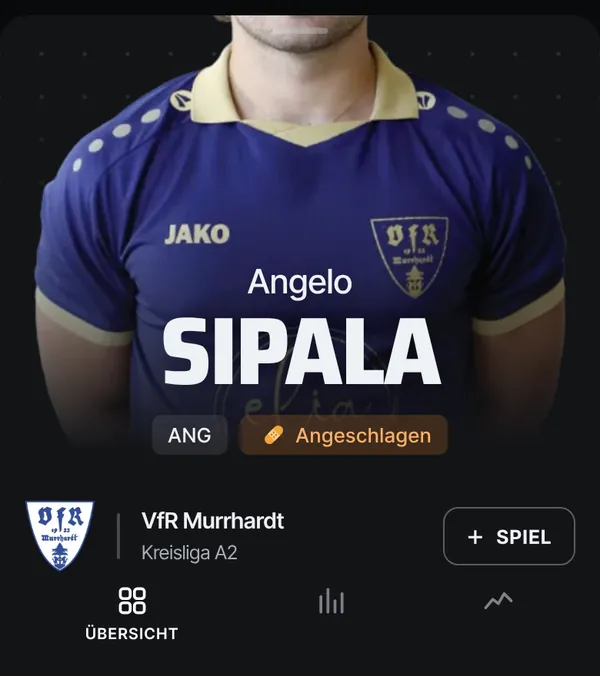
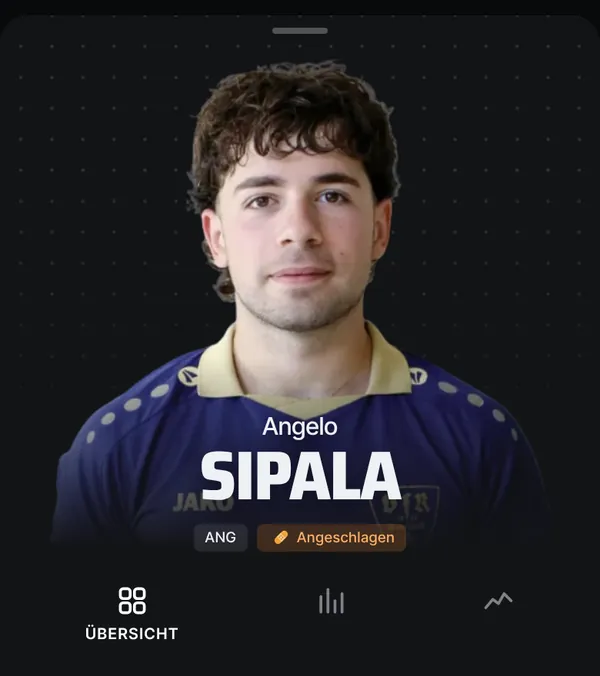
Rundgaenge: schaerfere Fotos, neue Ausschnitte, Barbano-Folie
- Torschuss- und Jubelfoto gegen schaerfere Fassungen getauscht
- Wer war's: Ausschnitt mit Torwart und Tor, Punkte oben links
- Zusammen buchen: Mannschaftsfoto mit kleinen Chips statt grossem QR-Bild
- Profil-Folie: Sipala ganz im Bild (verkleinert aufgenommen)
- Live bewerten: Barbano im 1 gegen 1, Aktionen fliegen hoch, Punkte zaehlen mit
- Version 4.9.1

Claude-Session: https://claude.ai/code/session_01RQDoPzKtwvGm13ZAECRXAG

diff --git a/js/ui/intro.js b/js/ui/intro.js
@@ -3,29 +3,30 @@
    - Punktevergabe erklärt: beim ersten Öffnen von „Punkte vergeben“ nach dem Spielstart
    Bilder: Screenshots der App und Fotos von uns (f-*), gemischt. Jeder Rundgang erscheint pro Gerät genau einmal (Schlüssel in KEYS). Neue Version eines Rundgangs = neuer Schlüssel,
    dann sieht ihn jeder noch einmal. Bilder liegen im Repo (assets/img/tut, WebP) – kein Supabase-Traffic. */
-import { readJson, writeJson, esc, fmt, cls } from '../core/util.js';
+import { readJson, writeJson, esc, fmt, cls, setNum, reducedMotion } from '../core/util.js';
+import { PL, photoUrl } from '../data/players.js';
 import { ACT } from '../core/game.js';
 import { KEYS } from '../config.js';
 
-const IMG = 'assets/img/tut/', V = '.webp?v=2'; // neue Bilder: v hochzählen (der Service Worker hält Bilder sonst für immer)
+const IMG = 'assets/img/tut/', V = '.webp?v=3'; // neue Bilder: v hochzählen (der Service Worker hält Bilder sonst für immer)
 /* Folien: { s: Screenshot der App } oder { f: Foto von uns, chips: [[Aktion, Punkte]], inset: kleiner Screenshot, logo } */
 const APP = [
-  { f: 'f-team', logo: 1, t: 'Willkommen bei Kickbase KL', x: 'Kickbase-Punkte für unsere Kreisliga – live vom Spielfeldrand.' },
+  { f: 'f-duell', logo: 1, t: 'Willkommen bei Kickbase KL', x: 'Kickbase-Punkte für unsere Kreisliga – live vom Spielfeldrand.' },
   { s: 'a-liga', t: 'Liga', x: 'Live-Spiele, nächste Spiele und der Spieler der Woche. Unten das Menü – oder einfach seitlich wischen.' },
   { s: 'a-profil', t: 'Jeder hat ein Profil', x: 'Punkte pro Spiel, Marktwert und Form. Ein Balken öffnet das Spiel mit allen Aktionen.' },
   { s: 'a-live', t: 'Live dabei', x: 'Läuft ein Spiel, siehst du jede Aktion sofort – auch ohne am Platz zu sein.' },
-  { s: 'a-neu', t: 'Selbst Punkte vergeben', x: 'Über den Blitz unten: Spieler wählen, Spiel starten. Den Rest zeigt dir die App beim ersten Mal.' },
+  { f: 'f-zweikampf', tag: { p: 'Barbano', a: ['duel', 'icpt', 'clri'] }, t: 'Live bewerten', x: 'Jede Aktion am Spielfeldrand sofort buchen. Über den Blitz unten: Spieler wählen, Spiel starten.' },
   { s: 'a-ranking', t: 'Ranking', x: 'Nach dem Abpfiff speichern – dann zählt das Spiel für Hall of Fame und Marktwert.' },
   { f: 'f-jubel', chips: [['MVP', 1], ['Top 3', 2]], t: 'Montag, 19 Uhr', x: 'Dann startet die MVP-Stage: die drei Besten des Spieltags.' }
 ];
 const BOOK = [
   { s: 'b-start', t: 'So vergibst du Punkte', x: 'Oben den Spieler wählen, unten den Bereich. Aktion antippen – fertig.' },
   { s: 'b-tor', t: 'Tor? Erst fürs Team', x: 'Fällt ein Tor, tippe im Reiter Spiel auf „Tor“ für dein Team – nicht beim Spieler. So stimmt der Spielstand für alle.' },
-  { f: 'f-schuss', chips: [['Tor', 'goal'], ['Schuss aufs Tor', 'sot'], ['Fernschuss', 'long']], t: 'Wer war’s?', x: 'Torschütze antippen, Fernschuss oder Schuss aufs Tor gleich mit dazu.' },
+  { f: 'f-schuss', top: 1, chips: [['Tor', 'goal'], ['Schuss aufs Tor', 'sot'], ['Fernschuss', 'long']], t: 'Wer war’s?', x: 'Torschütze antippen, Fernschuss oder Schuss aufs Tor gleich mit dazu.' },
   { s: 'b-vorlage', t: 'Vorlage mit Extras', x: 'Wer hat aufgelegt? Großchance, Flanke oder Pass des Todes geben extra Punkte. Alles freiwillig.' },
   { s: 'b-gegentor', t: 'Gegentor', x: 'Zuerst „Tor“ für den Gegner. Danach den Schuldigen wählen – wenn es einen gibt.' },
   { s: 'b-einhand', t: 'Ein-Hand-Modus', x: 'Hand-Symbol neben der Suche: sechs große Kacheln im Daumenbereich. Wischen wechselt den Spieler.' },
-  { f: 'f-duell', inset: 'b-mit', t: 'Zusammen buchen', x: 'Bis zu 3 Handys scannen den QR-Code im Reiter Spiel. Jeder wählt seine Spieler – Tore darf jeder melden.' },
+  { f: 'f-team', chips: [['Du · Klenk, Krauss', 0], ['Max · Reule', 0]], t: 'Zusammen buchen', x: 'Bis zu 3 Handys scannen den QR-Code im Reiter Spiel. Jeder wählt seine Spieler – Tore darf jeder melden.' },
   { s: 'b-zuletzt', t: 'Vertippt? Kein Problem', x: 'Unten stehen die letzten Buchungen. Antippen: löschen oder einem anderen Spieler geben.' }
 ];
 
@@ -34,19 +35,42 @@ export const bookingTourSeen = () => !!readJson(KEYS.tourBook2, false);
 export const showIntro = () => tour(APP, KEYS.intro3, 'Einführung', 'Los geht’s');
 export const showBookingTour = () => tour(BOOK, KEYS.tourBook2, 'Punktevergabe erklärt', 'Verstanden');
 
-/* Punkte-Chips auf den Fotos: Zahl = feste Punktzahl, Text = Aktion aus der Punktetabelle (Stürmer) */
-function chipPts(v) {
-  if (typeof v === 'number') return '';
+/* Punkte einer Aktion aus der Punktetabelle (Stürmer, sonst Mittelfeld) */
+function ptsOf(v) {
   const a = ACT[v];
-  if (!a) return '';
-  const n = typeof a.v === 'number' ? a.v : a.v && (a.v.ANG != null ? a.v.ANG : a.v.MIT);
+  if (!a) return null;
+  return typeof a.v === 'number' ? a.v : a.v && (a.v.ANG != null ? a.v.ANG : a.v.MIT);
+}
+/* Punkte-Chips auf den Fotos: Zahl = ohne Punkte, Text = Aktion */
+function chipPts(v) {
+  const n = typeof v === 'number' ? null : ptsOf(v);
   return n != null ? '<b class="' + cls(n) + '">' + fmt(n) + '</b>' : '';
+}
+/* Spieler-Marke auf dem Foto: seine Aktionen fliegen nacheinander hoch, die Punkte zählen mit */
+let tagTimer = null;
+function playTag(st, tag) {
+  clearTimeout(tagTimer);
+  const box = st.querySelector('.tour-tag'), num = box && box.querySelector('b');
+  if (!box) return;
+  let i = 0, sum = 0;
+  num._v = 0; num.textContent = '0';
+  const next = () => {
+    if (!box.isConnected || i >= tag.a.length) return;
+    const k = tag.a[i++], n = ptsOf(k) || 0, f = document.createElement('i');
+    f.className = 'tour-fly'; f.innerHTML = '<b class="' + cls(n) + '">' + fmt(n) + '</b> ' + esc(ACT[k].l);
+    box.parentNode.appendChild(f);
+    setTimeout(() => f.remove(), 1500);
+    sum += n; setNum(num, sum);
+    tagTimer = setTimeout(next, reducedMotion ? 0 : 1100);
+  };
+  tagTimer = setTimeout(next, 500);
 }
 function visual(sl) {
   if (sl.s) return '<div class="tour-shot"><img src="' + IMG + sl.s + V + '" alt="" width="600" height="676"></div>';
   return '<div class="tour-shot tour-photo"><img src="' + IMG + sl.f + V + '" alt="" width="600" height="676">' +
     (sl.logo ? '<img class="tour-plogo" src="assets/icons/logo.svg" alt="Kickbase KL">' : '') +
-    (sl.chips ? '<div class="tour-chips">' + sl.chips.map(([l, v], j) => '<span style="animation-delay:' + (0.25 + j * 0.22) + 's">' + esc(l) + chipPts(v) + '</span>').join('') + '</div>' : '') +
+    (sl.chips ? '<div class="tour-chips' + (sl.top ? ' top' : '') + '">' + sl.chips.map(([l, v], j) => '<span style="animation-delay:' + (0.25 + j * 0.22) + 's">' + esc(l) + chipPts(v) + '</span>').join('') + '</div>' : '') +
+    (sl.tag ? '<div class="tour-tag"><img src="' + esc(photoUrl(sl.tag.p, true)) + '" alt=""><span><small>' + esc(PL[sl.tag.p].n) + '</small><b>0</b></span></div>' : '') +
     (sl.inset ? '<div class="tour-inset"><img src="' + IMG + sl.inset + V + '" alt=""></div>' : '') + '</div>';
 }
 
@@ -65,6 +89,7 @@ function tour(slides, key, label, doneLabel) {
   const draw = dir => {
     const sl = slides[i], last = i === slides.length - 1, st = el.querySelector('#tourStage');
     st.innerHTML = visual(sl) + '<h2>' + esc(sl.t) + '</h2><p>' + esc(sl.x) + '</p>';
+    if (sl.tag) playTag(st, sl.tag); else clearTimeout(tagTimer);
     if (dir && st.animate && !matchMedia('(prefers-reduced-motion: reduce)').matches)
       st.animate([{ opacity: 0, transform: 'translateX(' + 30 * dir + 'px)' }, { opacity: 1, transform: 'none' }], { duration: 260, easing: 'cubic-bezier(.2, .8, .2, 1)' });
     el.querySelectorAll('.tour-dots i').forEach((d, j) => d.classList.toggle('on', j === i));

diff --git a/tests/tools/tutorial-bilder.js b/tests/tools/tutorial-bilder.js
@@ -32,13 +32,13 @@ const CSS = `.tut-hl{outline:3px solid #28de86!important;outline-offset:3px;box-
   await shot('a-liga');
   await c('[data-lv]'); await p.waitForTimeout(900); await p.evaluate(() => { const s = document.getElementById('watchScroll'), h = s.querySelector('.mhero'); s.scrollTop = h.offsetHeight - 300; }); await p.waitForTimeout(200); await p.evaluate(() => document.getElementById('watchMini').classList.remove('on')); await shot('a-live'); await p.evaluate(() => history.back()); await p.waitForTimeout(500);
   await c('[data-tb="kader"]'); await p.waitForTimeout(500);
-  await p.evaluate(() => [...document.querySelectorAll('[data-open^="p:"]')].find(e => e.textContent.includes('Sipala')).click()); await p.waitForTimeout(1800); await p.evaluate(() => { const s = document.getElementById('profileScroll'), n = s.querySelector('.pnames'); s.scrollTop = n.getBoundingClientRect().top + s.scrollTop - 170; }); await p.waitForTimeout(200); await p.evaluate(() => document.getElementById('profileMini').classList.remove('on')); await shot('a-profil');
+  await p.evaluate(() => [...document.querySelectorAll('[data-open^="p:"]')].find(e => e.textContent.includes('Sipala')).click()); await p.waitForTimeout(1800); await p.evaluate(() => { const s = document.getElementById('profileScroll'), n = s.querySelector('.pnames'); s.scrollTop = 0; s.style.zoom = 0.72; }); await p.waitForTimeout(200); await p.evaluate(() => document.getElementById('profileMini').classList.remove('on')); await shot('a-profil');
   await p.evaluate(() => history.back()); await p.waitForTimeout(500);
   await c('[data-tb="hof"]'); await p.waitForTimeout(1500); await shot('a-ranking');
   await c('[data-tb="game"]'); await p.waitForTimeout(600); await c('[data-pick="multi"]');
   for (const id of ['Klenk', 'Krauss', 'Reule']) { await c('[data-pick="p:' + id + '"]'); await p.waitForTimeout(80); }
   if (await p.$eval('#goBtn', e => e.disabled)) await c('[data-pick^="o:"]');
-  await p.waitForTimeout(300); await hl('#goBtn'); await shot('a-neu'); await hl(null);
+  await p.waitForTimeout(300); 
   // ---- Punktevergabe
   await c('#goBtn'); await p.waitForTimeout(600); await c('[data-nav="edit"]'); await p.waitForTimeout(500);
   await c('[data-do="clock"]'); await p.waitForTimeout(300);
@@ -61,7 +61,5 @@ const CSS = `.tut-hl{outline:3px solid #28de86!important;outline-offset:3px;box-
   await c('#undoTx .rbc'); await p.waitForTimeout(400); await hl('#undoTx .rbc', false); await shot('b-zuletzt');
   await c('[data-rb-x]'); await p.waitForTimeout(200); await p.evaluate(() => window.scrollTo(0, 0));
   await c('[data-oh="toggle"]'); await p.waitForTimeout(400); await hl('.oh-grid', false); await shot('b-einhand'); await hl(null); await c('[data-oh="toggle"]');
-  await c('.tabs [data-tab="spiel"]'); await p.waitForTimeout(300); await c('[data-mt="host"]'); await p.waitForTimeout(1500);
-  await p.evaluate(() => { for (const id of ['squadE', 'undo']) document.getElementById(id).style.display = 'none'; const e = document.querySelector('.mt-qr'); window.scrollTo(0, e.getBoundingClientRect().top + scrollY - 84); }); await shot('b-mit');
   console.log('Fehler:', errs.length ? errs : 'keine'); await b.close();
 })();

diff --git a/css/brand.css b/css/brand.css
@@ -488,3 +488,15 @@ body.onehand #quick { display: none !important; }
 .tour-inset img { display: block; width: 100%; height: auto !important; }
 @media (prefers-reduced-motion: reduce) { .tour-chips span, .tour-inset { animation: none; opacity: 1; } }
 .tour-photo > img:first-child { object-position: center; }
+.tour-chips.top { top: 14px; bottom: auto; }
+/* Spieler-Marke (Rundgang „Abwehr zählt auch“) */
+.tour-tag { position: absolute; z-index: 2; right: 12px; bottom: 14px; display: flex; align-items: center; gap: 9px; padding: 5px 14px 5px 5px; border-radius: 999px;
+  background: rgba(19, 20, 23, .88); backdrop-filter: blur(8px); -webkit-backdrop-filter: blur(8px); box-shadow: 0 6px 18px rgba(0, 0, 0, .4); }
+.tour-tag img { width: 38px !important; height: 38px !important; border-radius: 50%; object-fit: cover; object-position: top; background: #2a2b30; }
+.tour-tag span { display: grid; text-align: left; line-height: 1.05; }
+.tour-tag small { color: var(--muted); font: 600 12px var(--font-body); }
+.tour-tag b { color: var(--ink); font: 800 22px var(--font-display); }
+.tour-fly { position: absolute; z-index: 2; right: 14px; bottom: 66px; padding: 7px 12px; border-radius: 999px; background: rgba(19, 20, 23, .88); color: var(--ink);
+  font: 600 13.5px var(--font-body); font-style: normal; white-space: nowrap; animation: tour-fly 1.5s ease-out forwards; }
+.tour-fly b { font: 800 14px var(--font-display); margin-right: 4px; }
+@keyframes tour-fly { 0% { opacity: 0; transform: translateY(14px) scale(.9); } 15% { opacity: 1; transform: none; } 70% { opacity: 1; transform: translateY(-34px); } 100% { opacity: 0; transform: translateY(-60px); } }

diff --git a/sw.js b/sw.js
@@ -5,7 +5,7 @@
    Bilder (Spielerfotos, Wappen): nur einmal laden, danach immer aus dem Cache – kein erneutes Herunterladen.
    Geänderte Fotos bekommen eine neue Adresse (?v=…), alte Einträge werden beim Versionswechsel aufgeräumt.
    Datenbank-Anfragen (REST/Auth) werden nie zwischengespeichert. */
-const VERSION = 'kl-v4.9.0';
+const VERSION = 'kl-v4.9.1';
 const APP = 'app-' + VERSION;
 const IMG = 'img-v3';
 const SHELL = [

diff --git a/js/config.js b/js/config.js
@@ -11,7 +11,7 @@ export const VAPID_PUBLIC = 'BPpdkr18TxFId_jZJ6A0qLOo3pkdTIdKzKqfSYsnChxvth3Oq3V
 export const SEASON = '2026/2027';
 
 /* Angezeigte Version (Konto-Seite) – zusammen mit VERSION in sw.js hochzählen */
-export const APP_VERSION = '4.9.0';
+export const APP_VERSION = '4.9.1';
 
 /* localStorage-Schlüssel (alte Namen bleiben, damit laufende Spiele ein Update überstehen) */
 export const KEYS = {

diff --git a/CLAUDE.md b/CLAUDE.md
@@ -60,8 +60,8 @@ Erklärzeilen unter Optionen). Beschriftungen knapp halten; Erklärungen gehöre
 - Traffic (`js/services/traffic.js`): jedes Gerät zählt seine Supabase-Bytes (geschätzt) und meldet die Tagessumme
   (`rpc/traffic_melden`); Admins sehen die Monatssumme im Admin-Bereich (`rpc/traffic_monat`, Migration 012).
 - Rundgänge (`js/ui/intro.js`): Einführung (`KEYS.intro3`) und „Punktevergabe erklärt“ (`KEYS.tourBook2`, beim ersten
-  „Punkte vergeben“). Je einmal pro Gerät; neue Fassung = neuer Schlüssel. Folien `{ s }` = Screenshot, `{ f, chips, inset, logo }` =
-  Foto von uns (`f-*.webp`) mit Punkte-Chips bzw. kleinem Screenshot – gesunder Mix, Screenshots wo die Bedienung gezeigt wird.
+  „Punkte vergeben“). Je einmal pro Gerät; neue Fassung = neuer Schlüssel. Folien `{ s }` = Screenshot, `{ f, chips, top, tag, logo }` =
+  Foto von uns (`f-*.webp`) mit Punkte-Chips bzw. Spieler-Marke (`tag`: Aktionen fliegen hoch, Punkte zählen) – gesunder Mix, Screenshots wo die Bedienung gezeigt wird.
   Bilder als WebP in `assets/img/tut/` (600×676); Screenshots erzeugt `node tests/tools/tutorial-bilder.js` (Fenster 390×440,
   danach PNG → WebP, `V` in intro.js hochzählen). Ändert sich die Oberfläche stark, die Bilder neu aufnehmen.
 - Mitbuch-Modus (`js/services/mit.js` Logik/Übertragung, `js/ui/mit.js` Oberfläche, `js/core/qr.js` QR-Code ohne Bibliothek):
